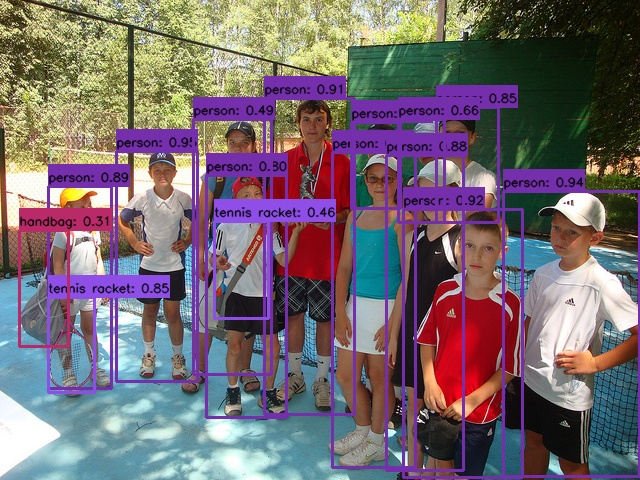
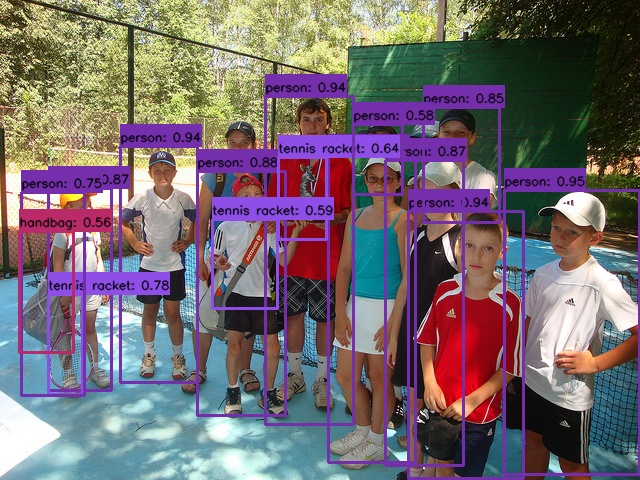
update

Changed region(s): [[0.0312, 0.125, 1.0, 1.0]]

diff --git a/utils/pre_process.py b/utils/pre_process.py
@@ -5,11 +5,9 @@ import cv2
 
 
 class PreProcessor(object):
-    def __init__(self, img_size, pixel_mean=(123.675, 116.28, 103.53), pixel_std=(58.395, 57.12, 57.375)):
+    def __init__(self, img_size):
         self.img_size = img_size
         self.input_size = [img_size, img_size]
-        self.pixel_mean = pixel_mean
-        self.pixel_std = pixel_std
 
 
     def __call__(self, image, swap=(2, 0, 1)):
@@ -19,9 +17,9 @@ class PreProcessor(object):
             formar: color format
         """
         if len(image.shape) == 3:
-            padded_img = np.zeros((self.input_size[0], self.input_size[1], 3), np.float32)
+            padded_img = np.ones((self.input_size[0], self.input_size[1], 3), np.float32) * 114.
         else:
-            padded_img = np.zeros(self.input_size, np.float32)
+            padded_img = np.ones(self.input_size, np.float32) * 114.
         # resize
         orig_h, orig_w = image.shape[:2]
         r = min(self.input_size[0] / orig_h, self.input_size[1] / orig_w)
@@ -30,12 +28,6 @@ class PreProcessor(object):
             resized_img = cv2.resize(image, resize_size, interpolation=cv2.INTER_LINEAR)
         else:
             resized_img = image
-
-        # to RGB
-        resized_img = resized_img[..., (2, 1, 0)]
-
-        # normalize
-        resized_img = (resized_img - self.pixel_mean) / self.pixel_std
 
         # pad
         padded_img[:resize_size[1], :resize_size[0]] = resized_img

diff --git a/onnx_inference.py b/onnx_inference.py
@@ -17,13 +17,13 @@ from utils.vis_tools import visualize
 
 def make_parser():
     parser = argparse.ArgumentParser("onnxruntime inference sample")
-    parser.add_argument("--model", type=str, default="weights/onnx/11/yolo_free_large.onnx",
+    parser.add_argument("--model", type=str, default="weights/onnx/11/yolo_free_tiny.onnx",
                         help="Input your onnx model.")
     parser.add_argument("-i", "--image_path", type=str, default='test_image.jpg',
                         help="Path to your input image.")
     parser.add_argument("-o", "--output_dir", type=str, default='results/',
                         help="Path to your output directory.")
-    parser.add_argument("-s", "--score_thr", type=float, default=0.3,
+    parser.add_argument("-s", "--score_thr", type=float, default=0.5,
                         help="Score threshould to filter the result.")
     parser.add_argument("-size", "--img_size", type=int, default=640,
                         help="Specify an input shape for inference.")

diff --git a/README.md b/README.md
@@ -22,8 +22,8 @@ Main results on COCO-val:
 | Model          |  Scale  |    AP    |    AP50    |  ONNX(opset=11)  |  ONNX(opset=10)  |
 |----------------|---------|----------|------------|------------------|------------------|
 | FreeYOLO-Nano  |  416    |      |        |  |  |
-| FreeYOLO-Tiny  |  416    |      |        |  |  |
-| FreeYOLO-Large |  640    |   47.1   |   67.4     | [github](https://github.com/yjh0410/FreeYOLO/releases/download/weight/yolo_free_large_opset_11.onnx) |  [github](https://github.com/yjh0410/FreeYOLO/releases/download/weight/yolo_free_large_opset_10.onnx) |
+| FreeYOLO-Tiny  |  416    |   31.1   |   49.4     | [github](https://github.com/yjh0410/FreeYOLO/releases/download/weight/yolo_free_tiny_opset_11.onnx) | [github](https://github.com/yjh0410/FreeYOLO/releases/download/weight/yolo_free_tiny_opset_10.onnx) |
+| FreeYOLO-Large |  640    |     |        |  |  |
 | FreeYOLO-Huge  |  640    |     |        |  |  |
 
 
@@ -32,7 +32,7 @@ Main results on COCO-val:
 For example:
 
 ```shell
-python3 onnx_inference.py --weight weights/onnx/yolo_free_large_opset_11.onnx -i test_image.jpg -s 0.3 -size 640
+python3 onnx_inference.py --weight weights/onnx/yolo_free_tiny_opset_11.onnx -i test_image.jpg -s 0.5 -size 416
 ```
 
 Notes:
